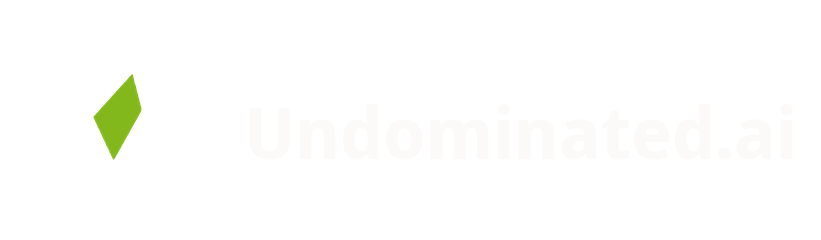
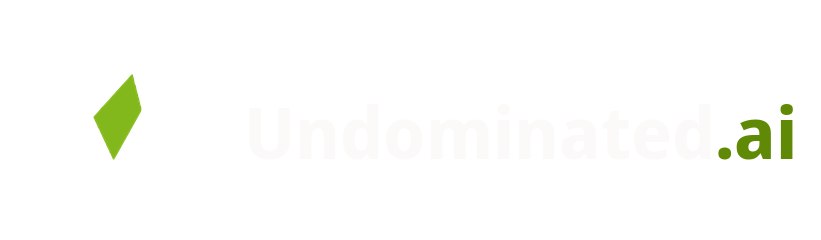
feat(brand): colour .ai darker green in public lockups
Stem stays paper or graphite. .ai is #608A05 on dark and #334C00 on
paper — darker than the evidence shard, applied to lockups, banner,
stacked lockups, and OG cards.

Changed region(s): [[0.8526, 0.4375, 0.9744, 0.6708]]

diff --git a/docs/brand/README.md b/docs/brand/README.md
@@ -13,4 +13,6 @@ Production identity for [Undominated.ai](https://undominated.ai/). Two independe
 | `vector/` | Full vector family including on-dark / on-paper plates and reveal variants |
 | `raster/` | 64–512px transparent and backed rasters |
 
+In lockups, banners, and OG cards the stem reads graphite or paper; **`.ai` is darker green** — `#334C00` on paper, `#608A05` on dark ground. That is darker than the shard (`#83B81D`) and still a contrast pass.
+
 Do not recolour the shard. Do not use it as a page boundary on paper. The live product is the website, not this folder.
